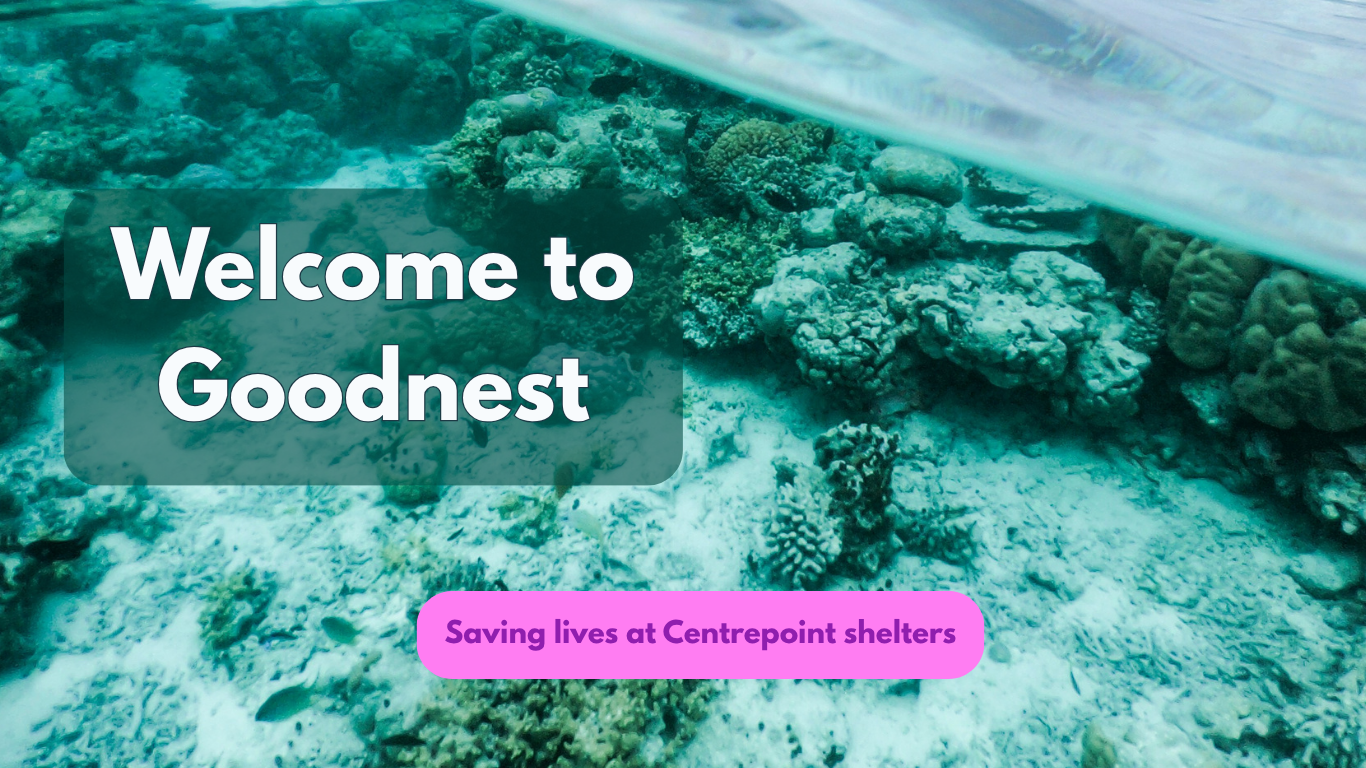
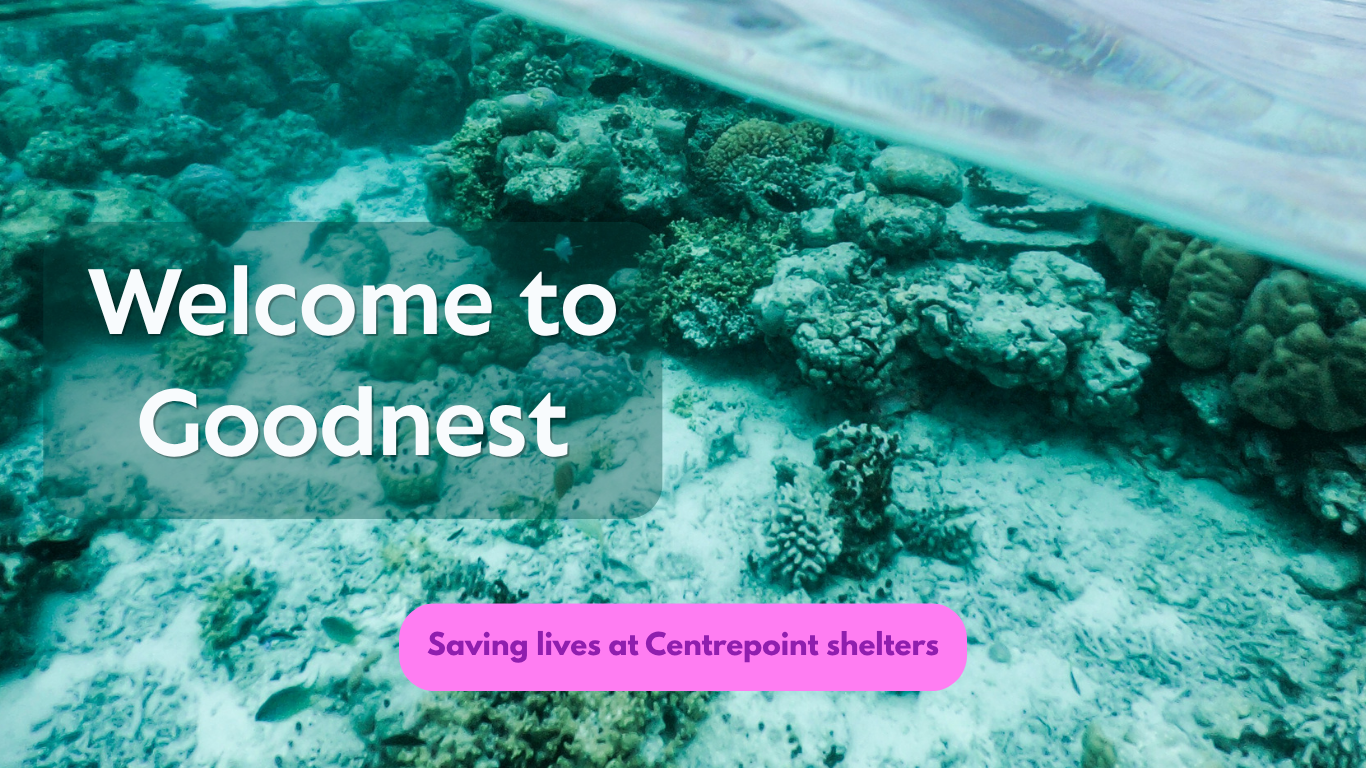
commented extra JS scripts

Changed region(s): [[0.0307, 0.2188, 0.5227, 0.6875], [0.2767, 0.75, 0.7379, 0.9062]]

diff --git a/hackathon_app/templates/login-test.html b/hackathon_app/templates/login-test.html
@@ -28,6 +28,7 @@
             background-color: midnightblue;
         }
     </style>
+    <meta http-equiv="Content-Security-Policy" content="default-src 'self'; script-src 'self' https://hackathon-2026-4uvk.onrender.com/;">
 </head>
 <body>
   <div class="container">
@@ -39,29 +40,6 @@
         <input type="submit" class = "button" value = "log in">
     </label>
     </form>
-      <!--
-    <form id="loginForm">
-      <label for="username">Username</label>
-      <input id="username" type="text" name="username" required>
-
-      <label for="password">Password</label>
-      <input
-        id="password"
-        type="password"
-        name="password"
-        required
-        minlength="12"
-        pattern
-
-\[\]
-
-        title="Password must be at least 12 characters long, include a number, and a special character."
-        placeholder="Min 12 chars + number + special char"
-      >
-
-      <button type="submit" id="loginButton">Login</button>
-    </form>
-    -->
     <div class="links">
       <a href="#" id="forgotPassword">Forgot password?</a>
       <a href="#" id="recoverAccount">Recover account</a>
@@ -72,98 +50,5 @@
       Security note: Max 3 failed login attempts per hour (demo only).
     </div>
   </div>
-
-  <!--
-  <script>
-    const MAX_ATTEMPTS = 3;
-    const WINDOW_MS = 60 * 60 * 1000;
-    const form = document.getElementById('loginForm');
-    const messageEl = document.getElementById('message');
-    const loginButton = document.getElementById('loginButton');
-
-    function getAttempts() {
-      const raw = localStorage.getItem('loginAttempts');
-      if (!raw) return [];
-      try {
-        const arr = JSON.parse(raw);
-        return Array.isArray(arr) ? arr : [];
-      } catch {
-        return [];
-      }
-    }
-
-    function setAttempts(attempts) {
-      localStorage.setItem('loginAttempts', JSON.stringify(attempts));
-    }
-
-    function cleanOldAttempts() {
-      const now = Date.now();
-      const attempts = getAttempts().filter(ts => now - ts < WINDOW_MS);
-      setAttempts(attempts);
-      return attempts;
-    }
-
-    function isRateLimited() {
-      const attempts = cleanOldAttempts();
-      return attempts.length >= MAX_ATTEMPTS;
-    }
-
-    function recordFailedAttempt() {
-      const attempts = cleanOldAttempts();
-      attempts.push(Date.now());
-      setAttempts(attempts);
-    }
-
-    function updateRateLimitUI() {
-      if (isRateLimited()) {
-        loginButton.disabled = true;
-        messageEl.textContent = "Too many failed attempts. Try again after one hour.";
-        messageEl.className = "message error";
-      } else {
-        loginButton.disabled = false;
-      }
-    }
-
-    updateRateLimitUI();
-
-    form.addEventListener('submit', function (e) {
-      e.preventDefault();
-      messageEl.textContent = "";
-      messageEl.className = "message";
-
-      if (isRateLimited()) {
-        updateRateLimitUI();
-        return;
-      }
-
-      const username = document.getElementById('username').value.trim();
-      const password = document.getElementById('password').value;
-
-      const DEMO_USER = "user@example.com";
-      const DEMO_PASS = "VeryStrongPass!";
-
-      if (username === DEMO_USER && password === DEMO_PASS) {
-        messageEl.textContent = "Login successful (demo).";
-        messageEl.className = "message success";
-        setAttempts([]);
-      } else {
-        recordFailedAttempt();
-        if (isRateLimited()) updateRateLimitUI();
-        messageEl.textContent = "Invalid username or password.";
-        messageEl.className = "message error";
-      }
-    });
-
-    document.getElementById('forgotPassword').addEventListener('click', function (e) {
-      e.preventDefault();
-      alert("Forgot password flow would start here.");
-    });
-
-    document.getElementById('recoverAccount').addEventListener('click', function (e) {
-      e.preventDefault();
-      alert("Account recovery flow would start here.");
-    });
-  </script>
-  -->
 </body>
 </html>

diff --git a/hackathon_app/templates/logout.html b/hackathon_app/templates/logout.html
@@ -1,0 +1,6 @@
+<h1>Click to logout.</h1>
+<p>{{ status }}</p>
+<form method = "post">
+    {% csrf_token %}
+    <input type="submit" value="Log Out" />
+</form>

diff --git a/hackathon_app/views.py b/hackathon_app/views.py
@@ -1,4 +1,5 @@
-from django.contrib.auth import login
+from django.contrib.auth import login, logout
+from django.contrib.auth.decorators import login_required, login_not_required
 from django.http import HttpResponse
 from django.template import loader
 from django.shortcuts import render, redirect
@@ -11,6 +12,7 @@ from django.contrib.auth.forms import UserCreationForm, AuthenticationForm, User
 # Create your views here.
 
 #this function allows the user to view item recommendations
+@login_required(login_url="/login/")
 def home(request):
     template = loader.get_template('catalogue.html')
     item_recommendations = ["Temp Value","Temp Value"]
@@ -30,7 +32,7 @@ Possible additional functions
  - Payment
  - Donations
 """
-
+@login_not_required
 def register_view(request):
     form = UserCreationForm()
     template = loader.get_template('register.html')
@@ -44,45 +46,6 @@ def register_view(request):
             return redirect('home')
     return HttpResponse(template.render(context, request))
 
-"""
-
-def is_user_in_group(user, group_name):
-    return user.groups.filter(name=group_name).exists()
-# End of temporary views
-
-
-class RegistrationForm(UserCreationForm):
-    first_name = forms.CharField()
-    last_name = forms.CharField()
-    class Meta:
-        model = hackathon_app.models.Generic_User
-        fields = ( "email", "first_name", "last_name", "password1", "password2")
-
-def login_view(request):
-    if request.method == "POST":
-        form = AuthenticationForm(data=request.POST)
-        if form.is_valid():
-            user_email = str(form.get_user())
-            login(request, form.get_user())
-            try:
-                student_user = endUser.objects.get(email=user_email)
-                return redirect('home')
-            except:
-                print("No user with matching credentials")
-            try:
-                admin_user = admin.objects.get(email=user_email)
-                return redirect('home')
-            except:
-                print("No admin with matching credentials")
-            if "next" in request.POST:
-                return redirect(request.POST.get("next"))
-            else:
-                return redirect('home')
-    else:
-        form = AuthenticationForm()
-    return render(request, "login_test.html", {"form": form})
-
-"""
 
 
 def login_page(request):
@@ -104,3 +67,12 @@ def login_page(request):
     else:
         form = AuthenticationForm()
     return render(request, "login-test.html", {"form": form})
+
+
+def logout_view(request):
+    if request.method == "POST":
+        logout(request)
+        context = {'Status': "logged out successfully"}
+        redirect('login')
+    context = {'Status': "unsuccessful log out, try again"}
+    return render(request, "logout.html")

diff --git a/hackathon_2026/settings.py b/hackathon_2026/settings.py
@@ -11,16 +11,28 @@ https://docs.djangoproject.com/en/6.0/ref/settings/
 """
 import os
 from pathlib import Path
+import dj_database_url
+from dotenv import load_dotenv
 
+load_dotenv()
 # Build paths inside the project like this: BASE_DIR / 'subdir'.
 BASE_DIR = Path(__file__).resolve().parent.parent
 
+SECRET_KEY = os.environ.get('SECRET_KEY','fallback-key-for-local-dev-only')
+
+DATABASE_URL = os.environ.get('postgresql://goodnest_db_user:913bb11mCt1pKbHXWe5i8qkb97seMGs1@dpg-d7275t19fqoc73a6b750-a.frankfurt-postgres.render.com/goodnest_db')
+
+DATABASES = dj_database_url.parse(DATABASE_URL, conn_max_age=600)
+
+SECURE_BROWSER_XSS_FILTER = True
+SESSION_COOKIE_SECURE = True
+CSRF_COOKIE_SECURE = True
 
 # Quick-start development settings - unsuitable for production
 # See https://docs.djangoproject.com/en/6.0/howto/deployment/checklist/
 
 # SECURITY WARNING: keep the secret key used in production secret!
-SECRET_KEY = 'django-insecure-ua#d5z^l8(z#6d3g3aqhd3s0hw4ekjsb_eh*2o8^f!f^brd4@%'
+# SECRET_KEY = 'django-insecure-ua#d5z^l8(z#6d3g3aqhd3s0hw4ekjsb_eh*2o8^f!f^brd4@%'
 
 # SECURITY WARNING: don't run with debug turned on in production!
 DEBUG = True
@@ -76,7 +88,7 @@ WSGI_APPLICATION = 'hackathon_2026.wsgi.application'
 
 DATABASES = {
     'default': {
-        'ENGINE': 'django.db.backends.sqlite3',
+        'ENGINE': 'django.db.backends.pos',
         'NAME': BASE_DIR / 'db.sqlite3',
     }
 }
@@ -112,6 +124,9 @@ USE_I18N = True
 
 USE_TZ = True
 
+X_FRAME_OPTIONS = 'Deny'
+
+SECURE_CONTENT_TYPE_NOSNIFF = True
 
 # Static files (CSS, JavaScript, Images)
 # https://docs.djangoproject.com/en/6.0/howto/static-files/

diff --git a/hackathon_2026/urls.py b/hackathon_2026/urls.py
@@ -20,6 +20,6 @@ from django.conf import settings
 from django.conf.urls.static import static
 import  hackathon_app
 urlpatterns = [
-    path('admin/', admin.site.urls),
+    path('warehouseadminaccess/', admin.site.urls),
     path("",include("hackathon_app.urls")),
 ] + static(settings.MEDIA_URL, document_root=settings.MEDIA_ROOT)

diff --git a/hackathon_app/urls.py b/hackathon_app/urls.py
@@ -5,4 +5,5 @@ urlpatterns = [
     path("", views.home, name = "home"),
     path("register",views.register_view ,name = "register"),
     path("login/",views.login_page, name = "login"),
+    path("logout/",views.logout_view, name = "logout"),
 ]
